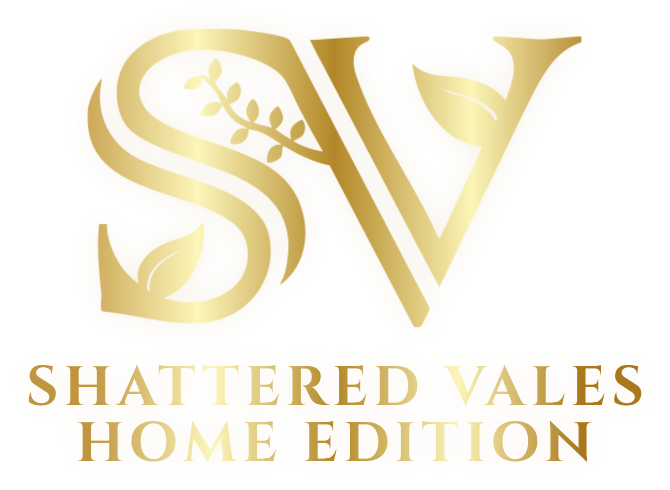
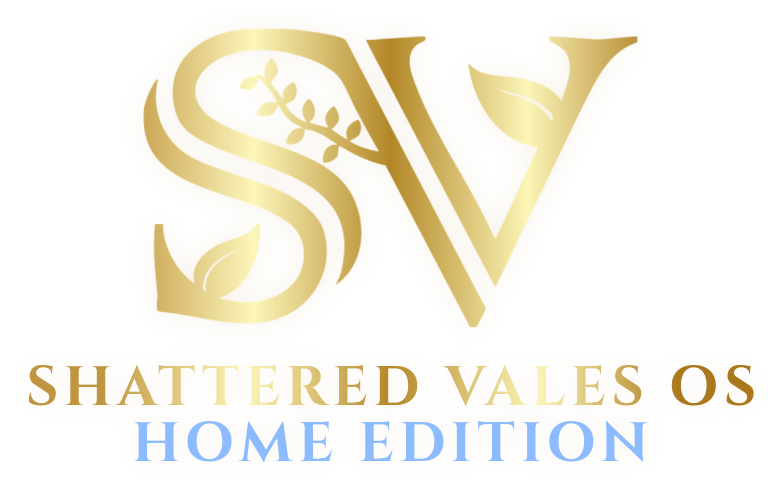
Add Thunderbird; two-line Home Edition wordmark
- Thunderbird (RPM, as in the studio edition) is installed and handles
  mailto links; it is no longer on the build gate's forbidden list.
- Lock screen and boot splash read "SHATTERED VALES OS" in the gold foil
  with "HOME EDITION" below in the edition blue (10.4:1 on the black
  backgrounds), matching Settings > About.

Claude-Session: https://claude.ai/code/session_01DSCfk8ZsFMvNTBV5x8eTWg

diff --git a/README.md b/README.md
@@ -32,7 +32,8 @@ Snapdragon models are not supported yet.
   suite.
 - **Everyday apps:** photo viewer, video player (and VLC for everything
   else), music player, text editor, calculator, calendar, clocks, weather,
-  camera, document scanner, archive manager, and Bitwarden for passwords.
+  camera, document scanner, archive manager, Thunderbird for email, and
+  Bitwarden for passwords.
 - **More apps** are one click away in **Software**.
 - **Simple by design:** one app list with no folders, a short dock at the
   bottom (Firefox, Files, PhotoCraft, WordCraft, VLC, Settings, System
